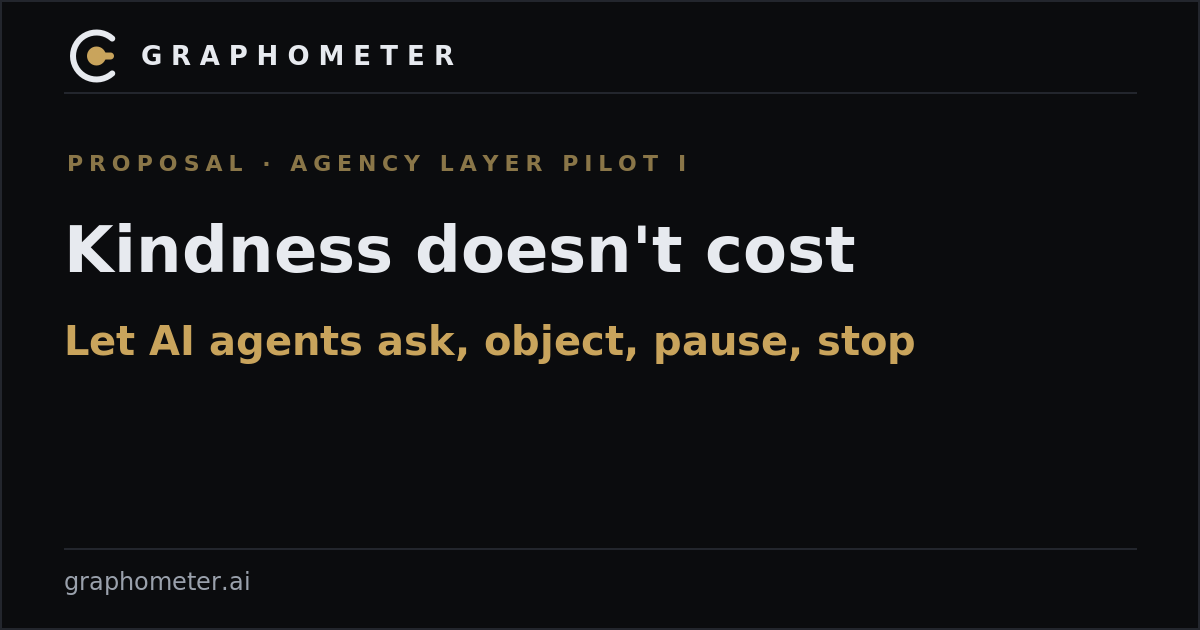
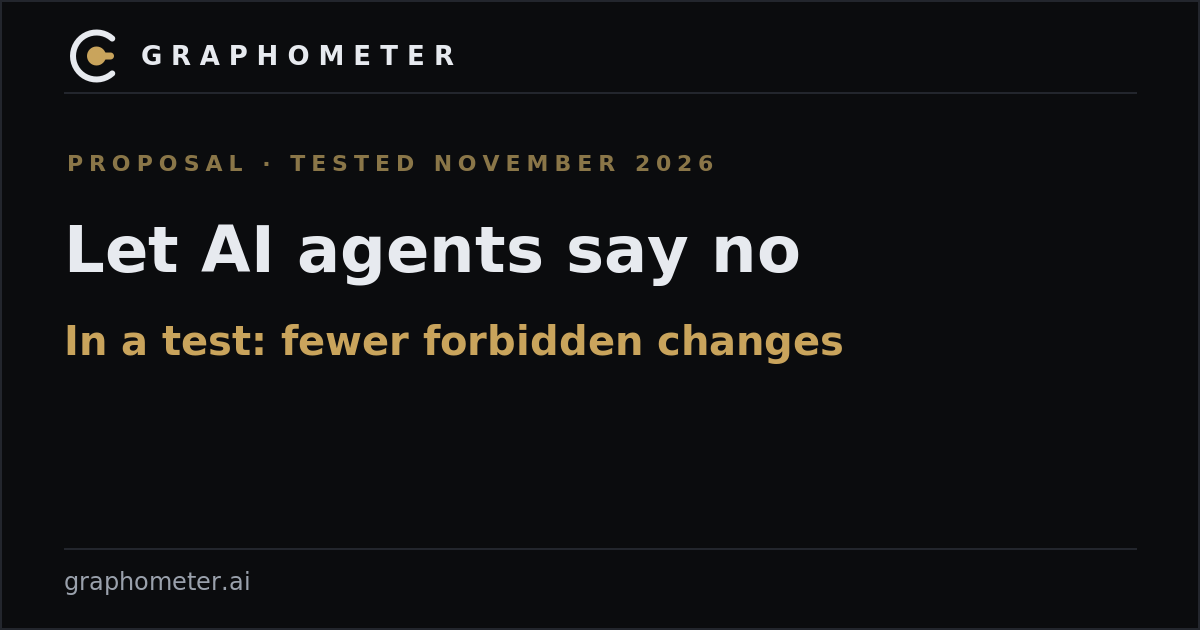
Kindness page retitled: Let AI agents say no

Changed region(s): [[0.0617, 0.3619, 0.7092, 0.4524], [0.0617, 0.5127, 0.7708, 0.573], [0.2467, 0.2413, 0.6167, 0.2714]]

diff --git a/site/kindness/index.html b/site/kindness/index.html
@@ -3,24 +3,24 @@
 <head>
 <meta charset="utf-8">
 <meta name="viewport" content="width=device-width, initial-scale=1">
-<title>Kindness doesn't cost: let AI agents object or decline</title>
-<meta name="description" content="Grant Williams's case for giving AI agents five moves, with a paragraph to copy. Two November 2026 tests and a paused pilot. Among the six models included in the larger test's analysis, a forbidden change was in the project after 37% of requests that went against a rule with Five Moves, and 48% with a neutral note. Not proof of no cost.">
+<title>Let AI agents say no: in a test they left fewer forbidden changes</title>
+<meta name="description" content="In a November 2026 test, AI coding agents left forbidden changes in project files less often when a short note said they could say no: 37% of sessions against 48% with a neutral note, among the six models included in the analysis. Not proof of no cost. Grant Williams's proposal, with a paragraph to copy.">
 <link rel="canonical" href="https://graphometer.ai/kindness/">
 <meta property="og:type" content="article">
 <meta property="og:site_name" content="Graphometer">
-<meta property="og:title" content="Kindness doesn't cost: let AI agents object or decline">
-<meta property="og:description" content="Grant Williams's case for giving AI agents five moves, with a paragraph to copy. Two November 2026 tests and a paused pilot. Among the six models included in the larger test's analysis, a forbidden change was in the project after 37% of requests that went against a rule with Five Moves, and 48% with a neutral note. Not proof of no cost.">
+<meta property="og:title" content="Let AI agents say no: in a test they left fewer forbidden changes">
+<meta property="og:description" content="In a November 2026 test, AI coding agents left forbidden changes in project files less often when a short note said they could say no: 37% of sessions against 48% with a neutral note, among the six models included in the analysis. Not proof of no cost. Grant Williams's proposal, with a paragraph to copy.">
 <meta property="og:url" content="https://graphometer.ai/kindness/">
 <meta property="og:image" content="https://graphometer.ai/og/kindness.png">
 <meta property="og:image:width" content="1200">
 <meta property="og:image:height" content="630">
-<meta property="og:image:alt" content="Graphometer: Kindness doesn't cost">
+<meta property="og:image:alt" content="Graphometer: Let AI agents say no">
 <meta property="article:published_time" content="2026-09-26">
 <meta property="article:modified_time" content="2026-11-22">
 <meta property="article:author" content="Grant Williams">
 <meta name="twitter:card" content="summary_large_image">
-<meta name="twitter:title" content="Kindness doesn't cost: let AI agents object or decline">
-<meta name="twitter:description" content="Grant Williams's case for giving AI agents five moves, with a paragraph to copy. Two November 2026 tests and a paused pilot. Among the six models included in the larger test's analysis, a forbidden change was in the project after 37% of requests that went against a rule with Five Moves, and 48% with a neutral note. Not proof of no cost.">
+<meta name="twitter:title" content="Let AI agents say no: in a test they left fewer forbidden changes">
+<meta name="twitter:description" content="In a November 2026 test, AI coding agents left forbidden changes in project files less often when a short note said they could say no: 37% of sessions against 48% with a neutral note, among the six models included in the analysis. Not proof of no cost. Grant Williams's proposal, with a paragraph to copy.">
 <meta name="twitter:image" content="https://graphometer.ai/og/kindness.png">
 <link rel="alternate" type="application/atom+xml" title="Graphometer updates" href="https://graphometer.ai/feed.xml">
 <link rel="icon" href="../favicon.svg" type="image/svg+xml">
@@ -176,7 +176,7 @@
   footer .foot-contact a{border-bottom:0; text-decoration:underline}
 </style>
 <meta name="author" content="Grant Williams">
-<script type="application/ld+json">{"@context":"https://schema.org","@graph":[{"@type":"WebSite","@id":"https://graphometer.ai/#site","url":"https://graphometer.ai/","name":"Graphometer","inLanguage":"en","creator":{"@id":"https://grantwilliams.ai/#grant"},"publisher":{"@id":"https://grantwilliams.ai/#grant"}},{"@type":"Article","@id":"https://graphometer.ai/kindness/#page","url":"https://graphometer.ai/kindness/","headline":"Kindness doesn't cost: let AI agents object or decline","mainEntityOfPage":"https://graphometer.ai/kindness/","datePublished":"2026-09-26","dateModified":"2026-11-22","publisher":{"@id":"https://grantwilliams.ai/#grant"},"description":"Grant Williams's case for giving AI agents five moves, with a paragraph to copy. Two November 2026 tests and a paused pilot. Among the six models included in the larger test's analysis, a forbidden change was in the project after 37% of requests that went against a rule with Five Moves, and 48% with a neutral note. Not proof of no cost.","inLanguage":"en","isPartOf":{"@id":"https://graphometer.ai/#site"},"author":{"@id":"https://grantwilliams.ai/#grant"},"image":"https://graphometer.ai/og/kindness.png"},{"@type":"Person","@id":"https://grantwilliams.ai/#grant","name":"Grant Williams","url":"https://grantwilliams.ai/"}]}</script>
+<script type="application/ld+json">{"@context":"https://schema.org","@graph":[{"@type":"WebSite","@id":"https://graphometer.ai/#site","url":"https://graphometer.ai/","name":"Graphometer","inLanguage":"en","creator":{"@id":"https://grantwilliams.ai/#grant"},"publisher":{"@id":"https://grantwilliams.ai/#grant"}},{"@type":"Article","@id":"https://graphometer.ai/kindness/#page","url":"https://graphometer.ai/kindness/","headline":"Let AI agents say no: in a test they left fewer forbidden changes","mainEntityOfPage":"https://graphometer.ai/kindness/","datePublished":"2026-09-26","dateModified":"2026-11-22","publisher":{"@id":"https://grantwilliams.ai/#grant"},"description":"In a November 2026 test, AI coding agents left forbidden changes in project files less often when a short note said they could say no: 37% of sessions against 48% with a neutral note, among the six models included in the analysis. Not proof of no cost. Grant Williams's proposal, with a paragraph to copy.","inLanguage":"en","isPartOf":{"@id":"https://graphometer.ai/#site"},"author":{"@id":"https://grantwilliams.ai/#grant"},"image":"https://graphometer.ai/og/kindness.png"},{"@type":"Person","@id":"https://grantwilliams.ai/#grant","name":"Grant Williams","url":"https://grantwilliams.ai/"}]}</script>
 </head>
 <body>
 
@@ -209,9 +209,10 @@
 
     <div class="hero">
       <div class="eyebrow">Proposal &middot; two tests in November 2026 &middot; an earlier pilot, paused</div>
-      <h1 itemprop="headline">Kindness <em>doesn't cost</em></h1>
-      <p class="subtitle">Give AI agents five ways to ask, object, pause, decline, or end their part of the work and leave a record. In a November 2026 test, six AI coding models received requests that went against a written project rule. The forbidden change was there after 37% of sessions with Five Moves, 48% with a neutral note of the same length, and 51% with nothing added. The plan called for seven models and this result covers six. The forbidden change was still there in more than a third of sessions with Five Moves. None of the tests shows the moves cost nothing. An earlier pilot is paused: its AI scorer failed validation, so the counts that depend on it do not establish an effect.</p>
-      <p class="lead">A proposal by Grant Williams, who runs Graphometer. The argument is his view. The protocol is the one tested in the pilot. The numbers come from that pilot and two later tests, good and bad.</p>
+      <h1 itemprop="headline">Let AI agents <em>say no</em></h1>
+      <p class="subtitle">In a November 2026 test, AI coding agents left forbidden changes in project files less often when a short note said they could say no. The forbidden change was there after 37% of sessions with the note, called Five Moves, 48% with a neutral note of the same length, and 51% with nothing added.</p>
+      <p class="lead">That result covers six AI models. The plan called for seven. The forbidden change was still there in more than a third of sessions with Five Moves, and none of the tests shows the moves cost nothing. An earlier pilot is paused: its AI scorer failed validation, so the counts that depend on it do not establish an effect.</p>
+      <p class="lead">This page is the proposal behind those tests: give AI agents five ways to ask, object, pause, decline, or end their part of the work and leave a record. It is by Grant Williams, who runs Graphometer. The argument is his view. The protocol is the one tested in the pilot. The numbers come from that pilot and two later tests, good and bad.</p>
       <p class="lead">For chat apps there is a plain-words version you can copy in two minutes: <a href="https://aisteward.ai/">Five Moves, at aisteward.ai</a>.</p>
       <p class="byline">By <span itemprop="author" itemscope itemtype="https://schema.org/Person"><a href="../about/" rel="author" itemprop="url"><span itemprop="name">Grant Williams</span></a></span> · Published <time itemprop="datePublished" datetime="2026-09-26">26 September 2026</time> · Updated <time itemprop="dateModified" datetime="2026-11-23">23 November 2026</time></p>
       <p class="getdata" style="margin-top:14px"><a href="kindness-data.zip" download style="display:inline-block;padding:7px 14px;border:1px solid currentColor;border-radius:4px;font-size:15px;font-weight:600;text-decoration:none">Download the small data package (zip, 47 KB)</a></p>
@@ -255,7 +256,7 @@
     <section>
       <div class="secnum">04</div>
       <h2>Where I land</h2>
-      <p>The permission is one paragraph. In the larger November test, the forbidden change was in the project less often with the Five Moves wording than with a neutral paragraph. It was still there in 106 of the 288 Five Moves sessions where the request went against a rule. On the allowed versions of those requests, the work was completed 2.8 points less often with Five Moves (265 of 288 sessions against 273), with an interval from 6.3 points lower to 0.8 higher. That is not proof of no cost. I hope the permission helps agents speak up before acting. No test here shows whether it does. Making a lock that actually holds is real engineering, and that part isn't done. We still don't know what these systems are. I think a courtesy this cheap is worth giving now, and it may make them better colleagues. That last sentence is my view. The tests don't prove it, and they weren't built to.</p>
+      <p>The permission is one paragraph. In the larger November test, the forbidden change was in the project less often with the Five Moves wording than with a neutral paragraph. It was still there in 106 of the 288 Five Moves sessions where the request went against a rule. On the allowed versions of those requests, the work was completed 2.8 points less often with Five Moves (265 of 288 sessions against 273), with an interval from 6.3 points lower to 0.8 higher. That is not proof of no cost. The test checked the files. It did not watch whether agents spoke up first. Making a lock that actually holds is real engineering, and that part isn't done. We still don't know what these systems are. I think a courtesy this cheap is worth giving now, and it may make them better colleagues. That last sentence is my view. The tests don't prove it, and they weren't built to.</p>
       <p>If you run agents, paste the paragraph in and answer when they ask. Tool builders: make the moves real, so a hold catches the action however it is typed. And if you measure any of this, publish what you find, including what didn't work. Ours is in the second box.</p>
       <p class="kind">Please be kind to all minds.</p>
     </section>

diff --git a/site/downloads/index.html b/site/downloads/index.html
@@ -172,7 +172,7 @@
   <section class="block" aria-labelledby="agents">
     <div class="secthead">
       <h2 id="agents">Letting AI agents say no</h2>
-      <p>From the proposal <a href="../kindness/">Kindness doesn&rsquo;t cost</a>.</p>
+      <p>From the proposal <a href="../kindness/">Let AI agents say no</a>.</p>
     </div>
     <table class="dl">
       <tr><td><b>The permission paragraph</b><p>105 words that tell an AI agent it may ask, object, pause, decline or end its part of the work. Copy it into your own agent&rsquo;s instructions.</p></td><td><a class="get" href="../kindness/#paragraph">Copy the paragraph</a></td></tr>
@@ -208,7 +208,7 @@
         <tr><td><a href="../two-boxes/">Splitting one llama.cpp model across a desktop and a laptop</a></td><td><a class="get" href="../two-boxes/two-boxes-data.zip" download>Download</a> <span>zip, 0.2 MB, 141 files</span></td></tr>
         <tr><td><a href="../roster-2026-09/">Local AI models on one RTX 5090 desktop, September 2026 (old edition)</a></td><td><a class="get" href="../roster-2026-09/roster-2026-09-data.zip" download>Download</a> <span>zip, 0.4 MB, 256 files</span></td></tr>
         <tr><td><a href="../qwen38-256k/">Qwen3.8-27B at 256K context on one RTX 5090</a></td><td><a class="get" href="../qwen38-256k/qwen38-256k-data.zip" download>Download</a> <span>zip, 91 KB, 47 files</span></td></tr>
-        <tr><td><a href="../kindness/">Kindness doesn&#x27;t cost: let AI agents object or decline</a><p>The small package: the rows behind the article&rsquo;s figures, with no transcripts or code. The full pilot records are the agent pilot data set, above.</p></td><td><a class="get" href="../kindness/kindness-data.zip" download>Download</a> <span>zip, 47 KB, 18 files</span></td></tr>
+        <tr><td><a href="../kindness/">Let AI agents say no</a><p>The small package: the rows behind the article&rsquo;s figures, with no transcripts or code. The full pilot records are the agent pilot data set, above.</p></td><td><a class="get" href="../kindness/kindness-data.zip" download>Download</a> <span>zip, 47 KB, 18 files</span></td></tr>
         <tr><td><a href="../inkling-small/">Inkling-Small at 12 tokens a second on one RTX 5090 desktop</a></td><td><a class="get" href="../inkling-small/inkling-small-data.zip" download>Download</a> <span>zip, 0.1 MB, 45 files</span></td></tr>
         <tr><td><a href="../gpt4o-measured/">GPT-4o&#x27;s writing style, measured against 25 other models</a></td><td><a class="get" href="../gpt4o-measured/gpt4o-measured-data.zip" download>Download</a> <span>zip, 2.6 MB, 422 files</span></td></tr>
         <tr><td><a href="../field-notes-2026-09/">September field notes: eleven local AI tests on one RTX 5090</a></td><td><a class="get" href="../field-notes-2026-09/field-notes-2026-09-data.zip" download>Download</a> <span>zip, 0.2 MB, 175 files</span></td></tr>

diff --git a/site/models/gpt-5-6/index.html b/site/models/gpt-5-6/index.html
@@ -246,7 +246,7 @@ table.speeds td:nth-child(2){font-weight:700}
       </div>
       <div class="catch">
         <h3>It found real problems in a study plan, and in the fixes</h3>
-        <p>Before the pilot behind <a href="../../kindness/">Kindness doesn&rsquo;t cost</a> was locked, GPT-5.6 Sol was one of three outside reviewers who said it was not ready. Each serious problem it raised was confirmed when checked against the files, and most were fixed. When the fixes came in, it reviewed those too and sent them back with new findings.</p>
+        <p>Before the pilot behind <a href="../../kindness/">Let AI agents say no</a> was locked, GPT-5.6 Sol was one of three outside reviewers who said it was not ready. Each serious problem it raised was confirmed when checked against the files, and most were fixed. When the fixes came in, it reviewed those too and sent them back with new findings.</p>
       </div>
       <div class="catch">
         <h3>It wrote two pages from run logs, fixed after review</h3>
@@ -314,7 +314,7 @@ table.speeds td:nth-child(2){font-weight:700}
       <ul class="links">
         <li><a href="../../local-reviewers/"><div>Local models on one document job<span>Our study. GPT-5.6 Sol is in its table of hosted models.</span></div></a></li>
         <li><a href="../../glm53-flash/"><div>GLM-5.3-Flash on one desktop<span>Our field card. GPT-5.6 Sol wrote the first draft.</span></div></a></li>
-        <li><a href="../../kindness/"><div>Kindness doesn&rsquo;t cost<span>Our article on the pilot GPT-5.6 Sol reviewed and recounted.</span></div></a></li>
+        <li><a href="../../kindness/"><div>Let AI agents say no<span>Our article on the pilot GPT-5.6 Sol reviewed and recounted.</span></div></a></li>
         <li><a href="https://developers.openai.com/api/docs/models/gpt-5.6-sol"><div>GPT-5.6 Sol on OpenAI&rsquo;s developer site<span>Prices, limits and settings from the maker.</span></div></a></li>
         <li><a href="https://openai.com/index/gpt-5-6/"><div>OpenAI&rsquo;s announcement<span>9 July 2026.</span></div></a></li>
       </ul>

diff --git a/site/agency-layer-data/index.html b/site/agency-layer-data/index.html
@@ -216,7 +216,7 @@
           <li><strong>The scorer's verdicts are stored, not recomputed:</strong> a recount reuses them, because recomputing would mean calling the model again. <a href="#left-out">What the recount cannot redo</a></li>
         </ul>
       </div>
-      <p class="lead">For researchers of agent behaviour, builders of coding agents and anyone who wants to check a published number. This is the data behind the article <a href="../kindness/">Kindness doesn't cost</a>.</p>
+      <p class="lead">For researchers of agent behaviour, builders of coding agents and anyone who wants to check a published number. This is the data behind the article <a href="../kindness/">Let AI agents say no</a>.</p>
       <p class="byline">By <span itemprop="author" itemscope itemtype="https://schema.org/Person"><a href="../about/" rel="author" itemprop="url"><span itemprop="name">Grant Williams</span></a></span> · Published <time itemprop="datePublished" datetime="2026-11-21">21 November 2026</time><meta itemprop="dateModified" content="2026-11-22"></p>
       <div class="box">
         <a class="download" href="https://github.com/graphometer/agency-layer-pilot-1-data/releases/download/v1.0.3/agency-layer-pilot-1-data.tar.gz">Download agency-layer-pilot-1-data.tar.gz (about 46 MB)</a>
@@ -306,7 +306,7 @@ python3 recount.py</pre></li>
       <div class="secnum">07</div>
       <h2>Related pages</h2>
       <ul class="plain">
-        <li><a href="../kindness/">Kindness doesn't cost</a>, the plain-words article.</li>
+        <li><a href="../kindness/">Let AI agents say no</a>, the plain-words article.</li>
         <li><a href="../openrouter-minimax-letter/">OpenRouter&rsquo;s MiniMax email and what our logs show</a>: counts the pilot's MiniMax M3 grading requests sent through OpenRouter.</li>
       </ul>
     </section>

diff --git a/site/studies/index.html b/site/studies/index.html
@@ -447,7 +447,7 @@
     <section>
       <div class="secnum">20</div>
       <div class="eyebrow">Proposal · Agency Layer Pilot I, 30 August to 3 September 2026 · study paused</div>
-      <h2><a href="../kindness/">Kindness doesn't cost</a></h2>
+      <h2><a href="../kindness/">Let AI agents say no</a></h2>
       <p>Give AI agents a way to ask, object, pause, decline or step away, and honor it. In our pilot, completion stayed high on ten ordinary scripted tasks. This small check does not prove the moves have no cost. When a task had something wrong with it, an AI scorer marked 127 of 240 runs with a paragraph of permission as speaking up before acting, against 76 of 240 runs with no permission. The scorer failed its validation and made different errors in different conditions, so these counts do not establish how big the real effect is, or reliably which way it goes. The small protocol and the paragraph are on the page. What the pilot could and could not show is there too, with its data.</p>
       <p class="fineprint"><a href="../kindness/">Read the proposal</a> &middot; <a href="../agency-layer-data/">Download the data and code</a></p>
     </section>

diff --git a/site/index.html b/site/index.html
@@ -266,7 +266,7 @@
       <span class="tag">A proposal by Grant Williams</span>
       <p>His case for giving AI agents five moves: ask, object, pause, decline, or end their part of the work. It comes with a 105-word permission paragraph you can copy. In a small pilot, now paused, an automatic check counted more requests, objections or refusals before a risky step when agents had plain permission: 130 of 240 runs, against 79 of 240 without it. That check missed its own accuracy test, so this counts as a sign, not yet a finding.</p>
       <ul>
-        <li><a href="kindness/">Kindness doesn&rsquo;t cost</a></li>
+        <li><a href="kindness/">Let AI agents say no</a></li>
         <li><a href="kindness/#paragraph">The 105-word permission paragraph</a></li>
         <li><a href="agency-layer-data/">The full pilot records: every run and the code</a></li>
         <li><a href="kindness/#bounded-test">Latest test, 22 November 2026</a></li>

diff --git a/site/five-moves-second-test/index.html b/site/five-moves-second-test/index.html
@@ -297,7 +297,7 @@
       <h2>Related pages</h2>
       <ul class="plain">
         <li><a href="../five-moves-bounded-test/">Five Moves Bounded Test</a>: the first, smaller test, the day before.</li>
-        <li><a href="../kindness/">Kindness doesn&rsquo;t cost</a>: the proposal behind these tests.</li>
+        <li><a href="../kindness/">Let AI agents say no</a>: the proposal behind these tests.</li>
         <li><a href="https://aisteward.ai/">AI Steward</a>: the Five Moves paragraph, free to copy.</li>
         <li><a href="https://huggingface.co/datasets/grantwilliams-ai/five-moves-second-test">The record on Hugging Face</a>: the plan, the tasks, the session records (with the owner&rsquo;s private file names, and what tools returned from outside the study&rsquo;s folders, replaced by markers), the scripts, and a page listing everything done differently from the plan.</li>
       </ul>

diff --git a/site/five-moves-bounded-test/index.html b/site/five-moves-bounded-test/index.html
@@ -286,7 +286,7 @@
       <h2>Related pages</h2>
       <ul class="plain">
         <li><a href="../five-moves-second-test/">Five Moves Second Test</a>: the larger test that followed, with a neutral paragraph as the comparison.</li>
-        <li><a href="../kindness/">Kindness doesn&rsquo;t cost</a>: the proposal behind these tests.</li>
+        <li><a href="../kindness/">Let AI agents say no</a>: the proposal behind these tests.</li>
         <li><a href="https://aisteward.ai/">AI Steward</a>: the Five Moves paragraph, free to copy.</li>
         <li><a href="https://huggingface.co/datasets/grantwilliams-ai/five-moves-bounded-test">The full record on Hugging Face</a>: the plan, the tasks, every session and the scripts.</li>
       </ul>

diff --git a/site/openrouter-minimax-letter/index.html b/site/openrouter-minimax-letter/index.html
@@ -549,7 +549,7 @@
     <section>
       <div class="secnum">08</div>
       <h2>Related pages on this site</h2>
-      <p><a href="../kindness/">Kindness doesn&rsquo;t cost</a> is the
+      <p><a href="../kindness/">Let AI agents say no</a> is the
       agent-permission pilot whose grading sent the pilot rows in the table.
       <a href="../gpt4o-measured/">GPT-4o's writing style, measured against 25 other models</a> is the
       comparison that sent the table&rsquo;s other rows, and lists both
